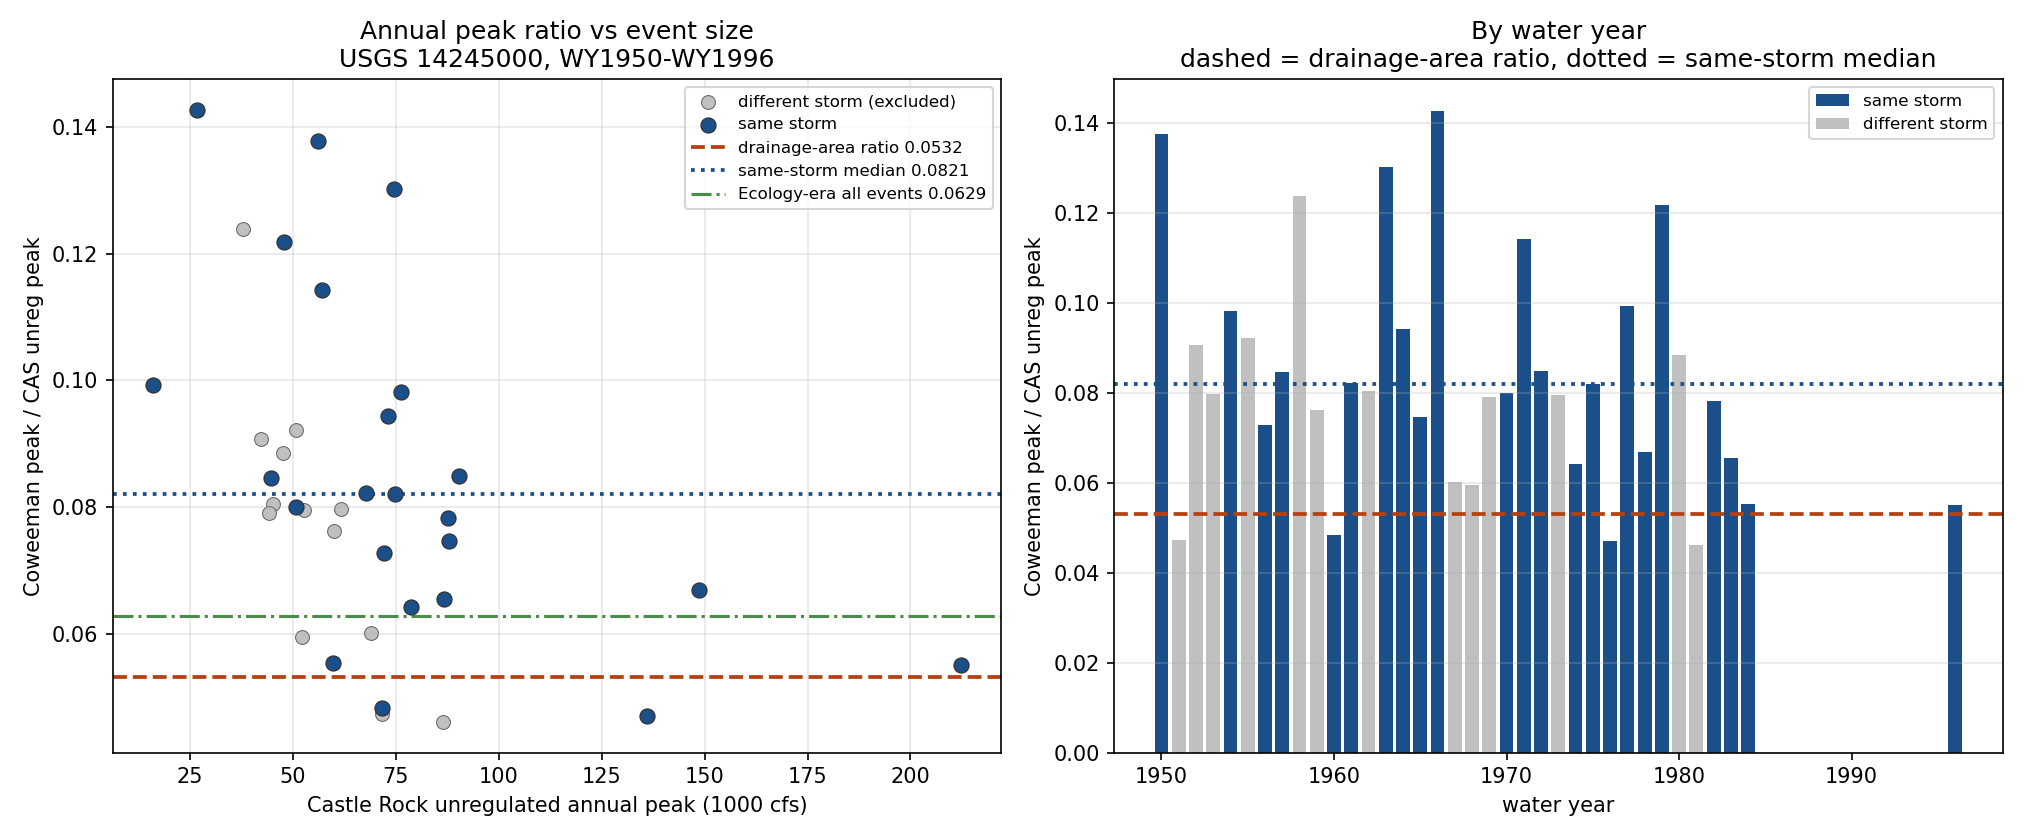
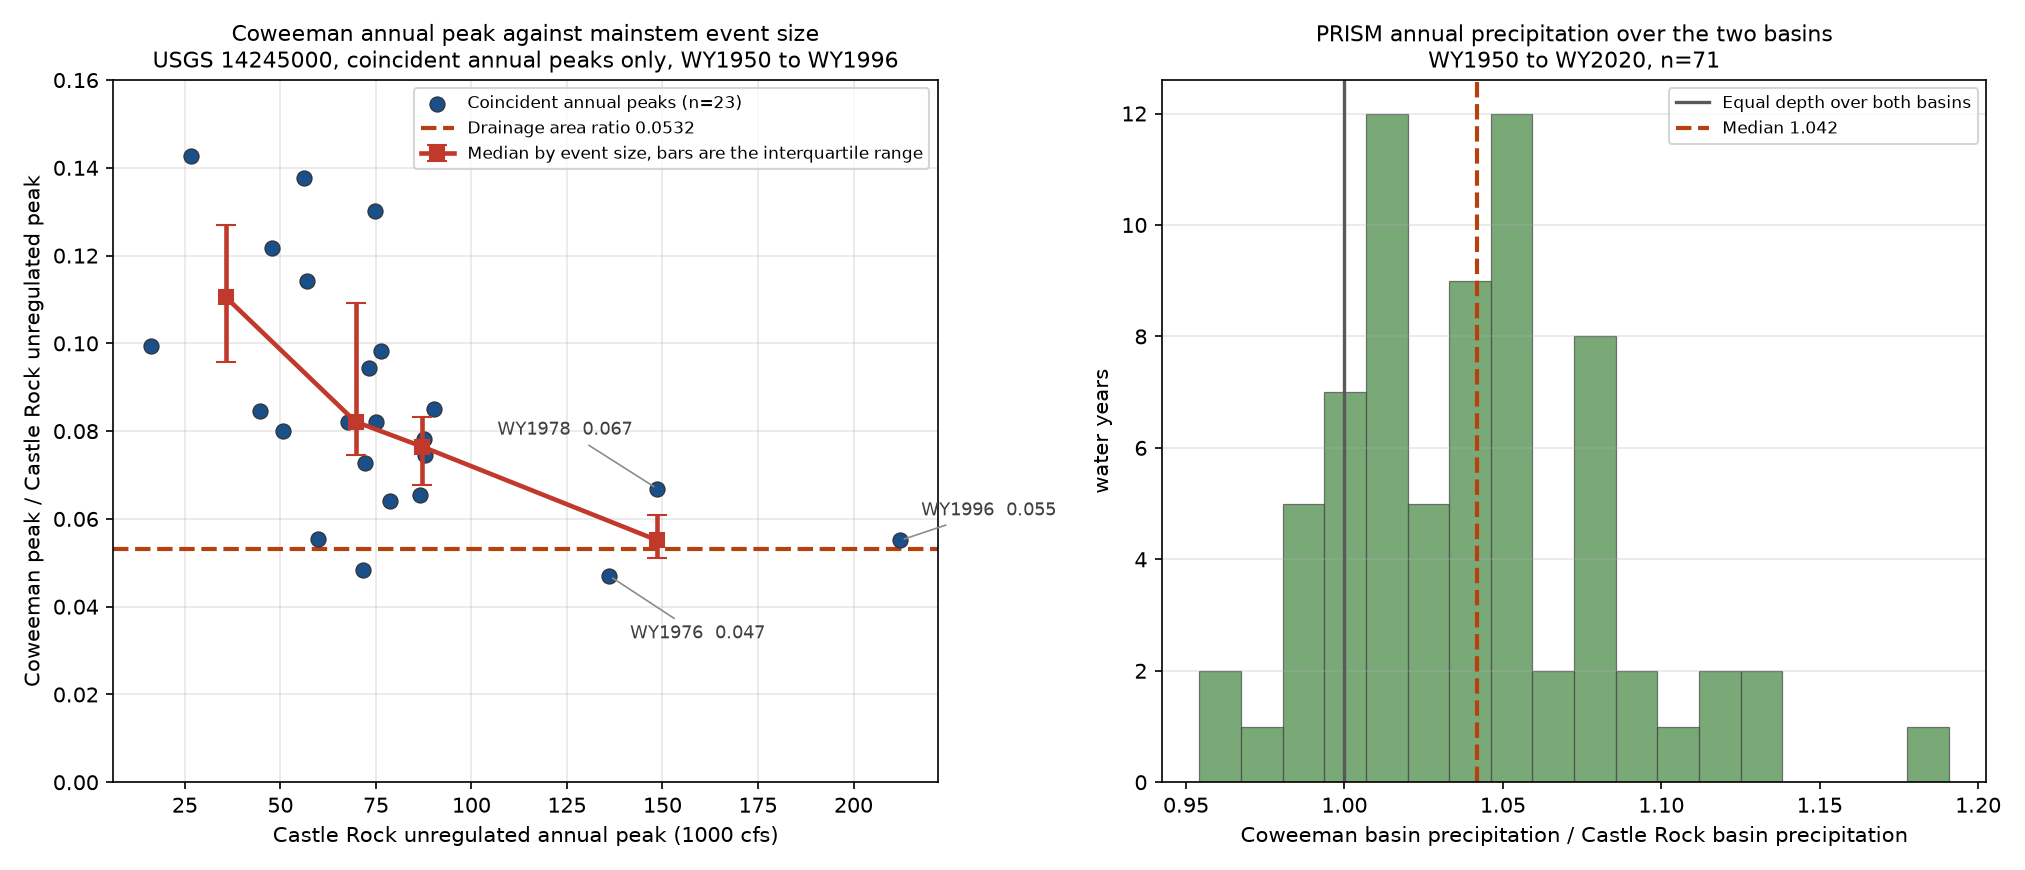
Rework the Coweeman ratio figure so it argues the area ratio rather than showing scatter
The scatter was asked for at DQC but as drawn it did not make a case. Changes,
all in the plot script. The memo is untouched.

Different storm pairs are dropped rather than greyed out. The ratio of two
annual peaks weeks apart is not a coincident quantity, so putting it on the
same axes invited it to be read as one. Twenty three coincident pairs remain.

The Ecology reference lines are gone. Splitting an Ecology era onto a figure
built from USGS annual peaks was what made the title and legend disagree, and
it put a period on the figure that none of the plotted data came from. It also
resolves the rating ceiling concern, since the Ecology gage was the censored
one. The USGS record carries no rating exceeded flag in any year. Its only
qualification code is WY1996, code 7, historic peak.

The bar chart by water year is replaced. In its place the left panel gets the
median ratio by event size with interquartile bars, which is the trend the
area ratio actually rests on and which raw scatter hides, and the three
largest events are named.

The right panel is now the PRISM basin precipitation ratio. It tests the equal
depth assumption the area ratio rests on rather than restating the flow
record, so the figure carries two independent lines of evidence instead of one
plus a reference line.

Claude-Session: https://claude.ai/code/session_01ApTwGCY7nuLmCs6XdyD2be

diff --git a/CAS_Reg_Unreg/src/#Coweeman_HistoricPeakRatio.py b/CAS_Reg_Unreg/src/#Coweeman_HistoricPeakRatio.py
@@ -68,8 +68,20 @@ SAME_STORM_DAYS = 5        # beyond this the two annual maxima are different sto
 ECOLOGY_TAIL_RATIO = 0.0590
 ECOLOGY_ALL_RATIO = 0.0629
 
+# The PRISM basin precipitation ratio, drawn as the second panel. It is the
+# independent support for the area ratio, because it tests the equal depth
+# assumption the area ratio rests on rather than restating the flow record.
+PRISM_CSV = r"../output/diagnostics/prism_basin_precip_ratio.csv"
+
+# Bin edges for the median ratio by event size, in 1000 cfs. The whole argument
+# for a plain area ratio is that the ratio falls toward it as events grow, and
+# raw scatter alone does not show that.
+SIZE_BINS_KCFS = [0, 50, 75, 100, 250]
+
 C_SAME = "#1a4f8a"
 C_DIFF = "#c0c0c0"
+C_DA = "#b7410e"
+C_PRISM = "#4c8c4a"
 
 # ----------------------------------------------------------------------------
 
@@ -254,37 +266,87 @@ def report(table):
 
 
 def plot(table):
+    """Two independent lines of evidence for a plain drainage area ratio.
+
+    Left, the flow ratio against event size, same storm pairs only. Different
+    storm pairs are dropped rather than greyed out, because the ratio of two
+    peaks weeks apart is not a coincident quantity and putting it on the same
+    axes invites it to be read as one. Right, the PRISM basin precipitation
+    ratio, which tests the equal depth assumption directly.
+    """
     da = COW_GAGE_DA / CAS_DA
-    same = table[table["same_storm"]]
-    diff = table[~table["same_storm"]]
-    fig, (ax1, ax2) = plt.subplots(1, 2, figsize=(13.5, 5.6))
+    same = table[table["same_storm"]].copy()
+    fig, (ax1, ax2) = plt.subplots(1, 2, figsize=(13.5, 5.8))
 
-    ax1.scatter(diff["cas_unreg_peak_cfs"] / 1000, diff["ratio_peak"], s=44,
-                color=C_DIFF, edgecolor="0.4", lw=0.5, label="different storm (excluded)")
-    ax1.scatter(same["cas_unreg_peak_cfs"] / 1000, same["ratio_peak"], s=52,
-                color=C_SAME, edgecolor="0.2", lw=0.6, label="same storm", zorder=3)
-    ax1.axhline(da, color="#b7410e", ls="--", lw=1.8,
-                label="drainage-area ratio %.4f" % da)
-    ax1.axhline(same["ratio_peak"].median(), color=C_SAME, ls=":", lw=1.8,
-                label="same-storm median %.4f" % same["ratio_peak"].median())
-    ax1.axhline(ECOLOGY_ALL_RATIO, color="#4c8c4a", ls="-.", lw=1.5,
-                label="Ecology-era all events %.4f" % ECOLOGY_ALL_RATIO)
+    x = same["cas_unreg_peak_cfs"] / 1000.0
+    ax1.scatter(x, same["ratio_peak"], s=52, color=C_SAME, edgecolor="0.2",
+                lw=0.6, zorder=3, label="Coincident annual peaks (n=%d)" % len(same))
+    ax1.axhline(da, color=C_DA, ls="--", lw=2.0,
+                label="Drainage area ratio %.4f" % da)
+
+    # Median and interquartile spread by event size. This is the trend the
+    # area ratio rests on, and it is invisible in the raw scatter.
+    cx, cy, lo, hi = [], [], [], []
+    for a, b in zip(SIZE_BINS_KCFS[:-1], SIZE_BINS_KCFS[1:]):
+        grp = same[(x >= a) & (x < b)]
+        if len(grp) < 3:
+            continue
+        cx.append(grp["cas_unreg_peak_cfs"].median() / 1000.0)
+        cy.append(grp["ratio_peak"].median())
+        lo.append(grp["ratio_peak"].quantile(0.25))
+        hi.append(grp["ratio_peak"].quantile(0.75))
+    if cx:
+        ax1.errorbar(cx, cy, yerr=[np.array(cy) - np.array(lo),
+                                   np.array(hi) - np.array(cy)],
+                     color="#c0392b", lw=2.2, marker="s", ms=7, capsize=5,
+                     zorder=4, label="Median by event size, bars are the "
+                                     "interquartile range")
+
+    # The three largest events carry the most weight, so name them. Labels are
+    # staggered because the two largest after 1996 sit almost on top of each
+    # other, and a label near the area ratio line has to clear it.
+    big = same.nlargest(3, "cas_unreg_peak_cfs").reset_index(drop=True)
+    offsets = [(10, 12), (-12, 26), (10, -30)]
+    for k, r in big.iterrows():
+        dx, dy = offsets[k % len(offsets)]
+        ax1.annotate("WY%d  %.3f" % (r["wy"], r["ratio_peak"]),
+                     xy=(r["cas_unreg_peak_cfs"] / 1000.0, r["ratio_peak"]),
+                     xytext=(dx, dy), textcoords="offset points",
+                     fontsize=8.5, color="0.25",
+                     ha="right" if dx < 0 else "left",
+                     arrowprops=dict(arrowstyle="-", color="0.55", lw=0.8))
+
     ax1.set_xlabel("Castle Rock unregulated annual peak (1000 cfs)")
-    ax1.set_ylabel("Coweeman peak / CAS unreg peak")
-    ax1.set_title("Annual peak ratio vs event size\nUSGS 14245000, WY%d-WY%d"
-                  % (table.wy.min(), table.wy.max()))
+    ax1.set_ylabel("Coweeman peak / Castle Rock unregulated peak")
+    ax1.set_title("Coweeman annual peak against mainstem event size\n"
+                  "USGS 14245000, coincident annual peaks only, WY%d to WY%d"
+                  % (same.wy.min(), same.wy.max()), fontsize=10.5)
+    ax1.set_ylim(0, max(0.16, same["ratio_peak"].max() * 1.08))
     ax1.grid(alpha=0.3)
-    ax1.legend(fontsize=8)
+    ax1.legend(fontsize=8, loc="upper right")
 
-    ax2.bar(same["wy"], same["ratio_peak"], color=C_SAME, label="same storm")
-    ax2.bar(diff["wy"], diff["ratio_peak"], color=C_DIFF, label="different storm")
-    ax2.axhline(da, color="#b7410e", ls="--", lw=1.8)
-    ax2.axhline(same["ratio_peak"].median(), color=C_SAME, ls=":", lw=1.8)
-    ax2.set_xlabel("water year")
-    ax2.set_ylabel("Coweeman peak / CAS unreg peak")
-    ax2.set_title("By water year\ndashed = drainage-area ratio, dotted = same-storm median")
-    ax2.grid(alpha=0.3, axis="y")
-    ax2.legend(fontsize=8)
+    # --- PRISM ---------------------------------------------------------------
+    if os.path.exists(PRISM_CSV):
+        pr = pd.read_csv(PRISM_CSV)
+        v = pd.to_numeric(pr["ratio"], errors="coerce").dropna()
+        ax2.hist(v, bins=18, color=C_PRISM, alpha=0.75, edgecolor="0.3", lw=0.6)
+        ax2.axvline(1.0, color="0.35", ls="-", lw=1.6,
+                    label="Equal depth over both basins")
+        ax2.axvline(v.median(), color=C_DA, ls="--", lw=2.0,
+                    label="Median %.3f" % v.median())
+        ax2.set_xlabel("Coweeman basin precipitation / Castle Rock basin "
+                       "precipitation")
+        ax2.set_ylabel("water years")
+        ax2.set_title("PRISM annual precipitation over the two basins\n"
+                      "WY%d to WY%d, n=%d"
+                      % (int(pr.year.min()), int(pr.year.max()), len(v)),
+                      fontsize=10.5)
+        ax2.grid(alpha=0.3, axis="y")
+        ax2.legend(fontsize=8)
+    else:
+        ax2.text(0.5, 0.5, "PRISM ratio not available\n%s" % PRISM_CSV,
+                 ha="center", va="center", transform=ax2.transAxes, fontsize=9)
+        ax2.set_axis_off()
 
     fig.tight_layout()
     fig.savefig(PLOT_PNG, dpi=150)
